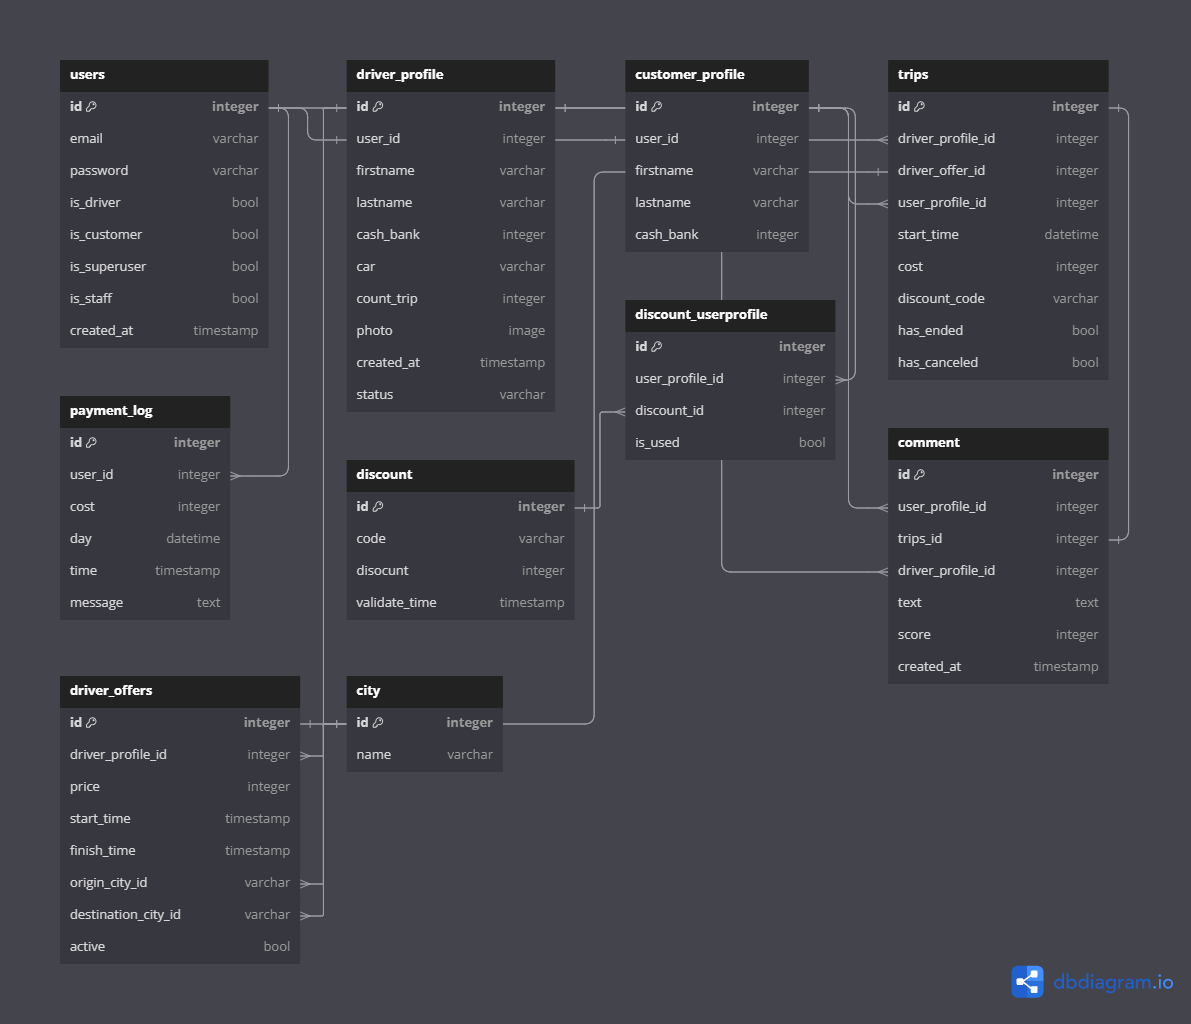
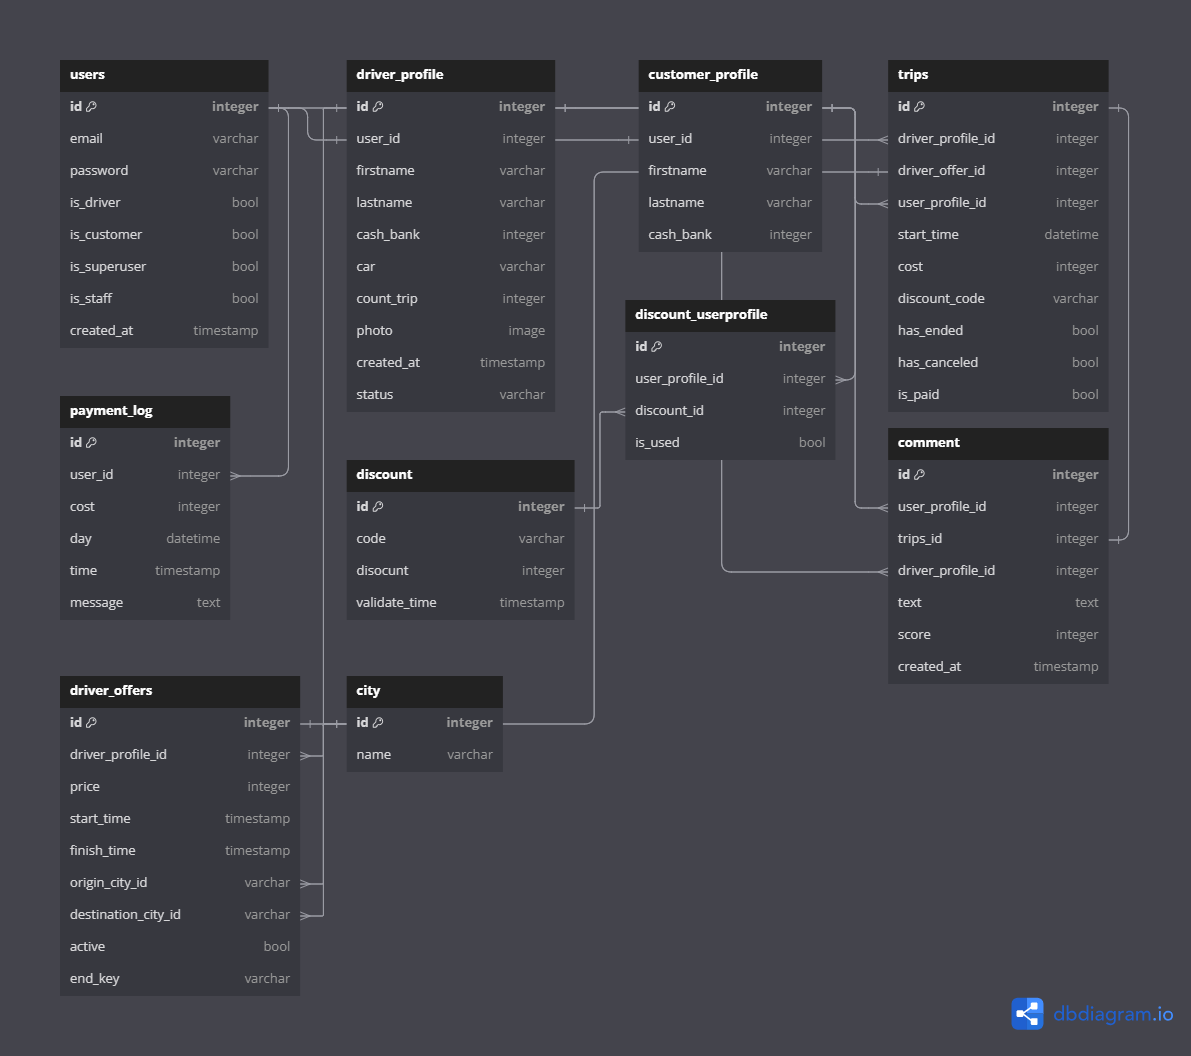
change Trip Models

diff --git a/core/trips/migrations/0008_trips_is_paid.py b/core/trips/migrations/0008_trips_is_paid.py
@@ -1,0 +1,18 @@
+# Generated by Django 5.0.2 on 2024-05-26 12:56
+
+from django.db import migrations, models
+
+
+class Migration(migrations.Migration):
+
+    dependencies = [
+        ('trips', '0007_comment_is_show'),
+    ]
+
+    operations = [
+        migrations.AddField(
+            model_name='trips',
+            name='is_paid',
+            field=models.BooleanField(default=False),
+        ),
+    ]

diff --git a/core/trips/models.py b/core/trips/models.py
@@ -20,6 +20,7 @@ class Trips(models.Model):
     discount_code = models.CharField(null=True, blank=True)
     is_end = models.BooleanField(default=False)
     is_cancel = models.BooleanField(default=False)
+    is_paid = models.BooleanField(default=False)
 
     def __str__(self):
         return self.driver.full_name + "/" + self.customer.full_name
